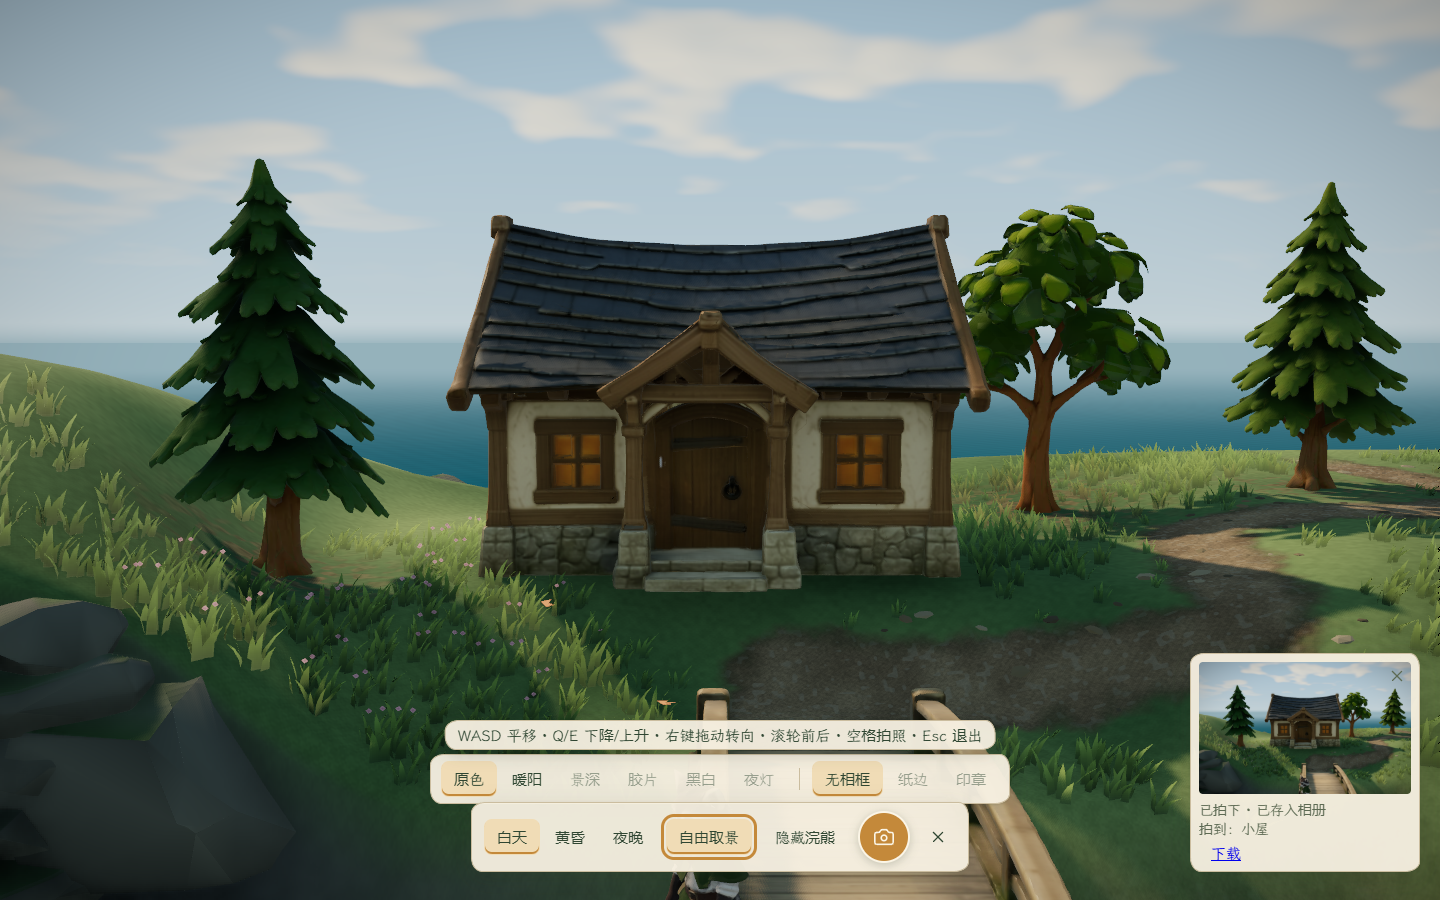
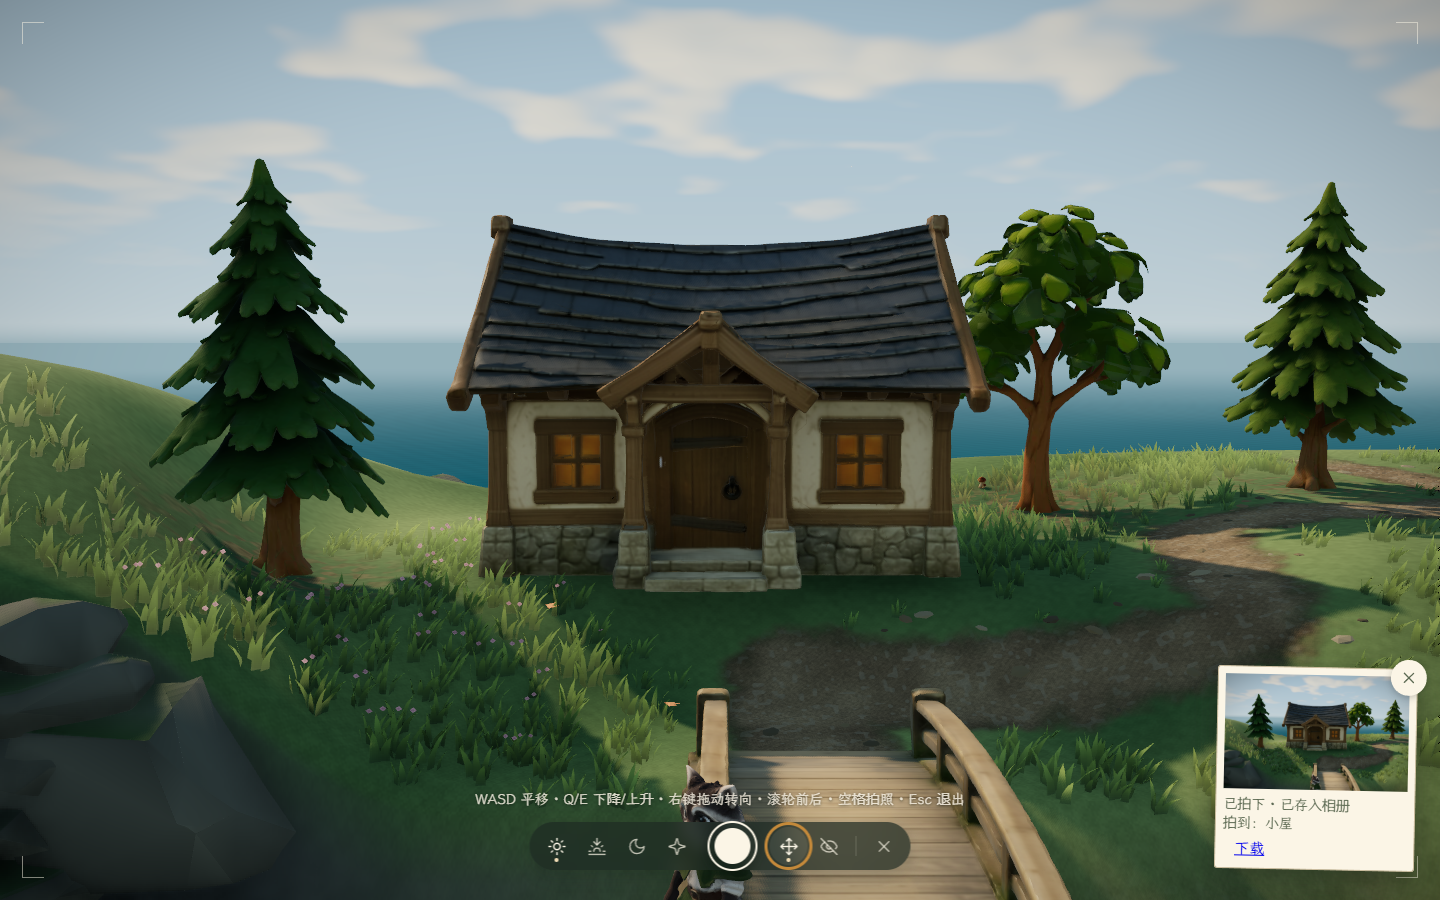
feat(photo): 拍照界面改为取景器风格，低画质下景深置灰并说明原因
底部墨绿半透明图标胶囊、环形快门、按需展开的滤镜条、淡出提示与四角取景框，
刚拍照片改为拍立得小卡；按钮保留隐藏文字与悬停说明。

Changed region(s): [[0.2812, 0.7778, 0.7188, 1.0], [0.8125, 0.7156, 1.0, 0.9956]]

diff --git a/src/App.css b/src/App.css
@@ -192,28 +192,14 @@ html[lang=en] .paper-panel h2{letter-spacing:.01em}
 .stamp-row small{font-size:14px}
 
 /* Photo mode */
-.photo-bar{position:absolute;left:50%;bottom:28px;transform:translateX(-50%);display:flex;align-items:center;gap:10px;padding:8px 12px;pointer-events:auto}
-.photo-lights{display:flex;gap:2px}
-.hud .photo-bar .tool-button[aria-pressed=true]{background:var(--amber-soft);box-shadow:inset 0 -2px 0 var(--amber)}
-.hud .shutter{width:52px;height:52px;border-radius:50%;padding:0;justify-content:center;background:var(--amber);border:2px solid var(--cream);color:var(--cream);box-shadow:0 2px 10px #2c3a2640}
-.hud .shutter:hover{background:var(--amber-ink)}
-.photo-hint{color:var(--ink);text-shadow:none;background:var(--paper);border:1px solid var(--line);border-radius:var(--paper-radius);padding:4px 12px;position:absolute;left:50%;bottom:150px;transform:translateX(-50%);width:max-content;max-width:calc(100% - 40px);margin:0}
 .photo-flash{position:absolute;inset:0;background:#fffbe8;opacity:.85;pointer-events:none;animation:photo-flash .18s ease-out forwards}
 @keyframes photo-flash{to{opacity:0}}
-.photo-last{position:absolute;right:20px;bottom:28px;margin:0;width:230px;padding:8px;display:grid;gap:6px;pointer-events:auto}
-.photo-last img{width:100%;border-radius:4px;display:block}
-.photo-last figcaption{font-size:14px;color:var(--ink-soft)}
-.photo-last .close-button{position:absolute;top:4px;right:4px}
 .hud .tool-button[aria-disabled=true]{opacity:.5}
 .album-grid{list-style:none;margin:8px 0 0;padding:0;display:grid;grid-template-columns:repeat(2,1fr);gap:10px}
 .album-grid img{width:100%;border-radius:4px;display:block;aspect-ratio:16/10;object-fit:cover}
 .album-grid span{font-size:14px;color:var(--ink-soft)}
 .album-grid div{display:flex;gap:6px;margin-top:2px}
 
-.photo-styles{position:absolute;left:50%;bottom:96px;transform:translateX(-50%);display:flex;align-items:center;gap:8px;padding:6px 10px;pointer-events:auto;width:max-content;max-width:calc(100% - 40px)}
-.photo-styles>div{display:flex;gap:2px}
-.hud .photo-styles .tool-button[aria-pressed=true]{background:var(--amber-soft);box-shadow:inset 0 -2px 0 var(--amber)}
-.hud .photo-styles .tool-button[aria-disabled=true]{opacity:.45}
 
 /* Field guide */
 .catalog-tabs{display:flex;gap:4px;margin-bottom:10px;border-bottom:1px solid var(--line-soft)}
@@ -245,3 +231,39 @@ html[lang=en] .paper-panel h2{letter-spacing:.01em}
 .recipe-list small{grid-column:1;color:var(--ink-soft);font-size:14px}
 .recipe-list button,.recipe-made{grid-column:2;grid-row:1/span 2}
 .recipe-made{color:var(--moss);font-size:14px}
+
+/* Photo mode: a viewfinder. One slim ink strip of icons, a ring shutter, faint corner marks; the picture stays clear. */
+.sr-only{position:absolute;width:1px;height:1px;overflow:hidden;clip-path:inset(50%);white-space:nowrap}
+.viewfinder{position:absolute;inset:22px;pointer-events:none}
+.viewfinder i{position:absolute;width:22px;height:22px;border-color:#fbf5e680;border-style:solid;border-width:0}
+.viewfinder i:nth-child(1){left:0;top:0;border-left-width:1.5px;border-top-width:1.5px}
+.viewfinder i:nth-child(2){right:0;top:0;border-right-width:1.5px;border-top-width:1.5px}
+.viewfinder i:nth-child(3){left:0;bottom:0;border-left-width:1.5px;border-bottom-width:1.5px}
+.viewfinder i:nth-child(4){right:0;bottom:0;border-right-width:1.5px;border-bottom-width:1.5px}
+.photo-strip,.photo-looks{position:absolute;left:50%;transform:translateX(-50%);display:flex;align-items:center;gap:2px;padding:5px 8px;border-radius:999px;background:#1d2a22b3;backdrop-filter:blur(8px);-webkit-backdrop-filter:blur(8px);box-shadow:0 6px 20px #10181240;pointer-events:auto}
+.photo-strip{bottom:30px}
+.photo-looks{bottom:96px;padding:4px 10px;gap:0}
+.photo-strip .group{display:flex;gap:2px}
+.photo-strip .rule{width:1px;height:20px;background:#fbf5e62e;margin:0 6px}
+.hud .photo-strip .icon-button{position:relative;width:38px;min-height:38px;padding:0;justify-content:center;border:0;border-radius:50%;background:transparent;color:#fbf5e6b8}
+.hud .photo-strip .icon-button:hover{background:#fbf5e614;color:var(--cream)}
+.hud .photo-strip .icon-button[aria-pressed=true]{color:var(--cream)}
+.hud .photo-strip .icon-button[aria-pressed=true]::after{content:'';position:absolute;bottom:3px;left:50%;width:4px;height:4px;margin-left:-2px;border-radius:50%;background:var(--amber-soft)}
+.hud .photo-strip .shutter{width:50px;height:50px;margin:-10px 10px;padding:0;border-radius:50%;border:2px solid var(--cream);background:transparent;display:grid;place-items:center;box-shadow:0 2px 12px #10181259}
+.hud .photo-strip .shutter span{width:36px;height:36px;border-radius:50%;background:var(--cream);transition:transform .12s ease}
+.hud .photo-strip .shutter:hover span{transform:scale(.92)}
+.hud .photo-strip .shutter:active span{transform:scale(.82)}
+.hud .photo-looks .chip{min-height:36px;padding:0 10px;border:0;border-radius:999px;background:transparent;color:#fbf5e6b8;font-size:14px}
+.hud .photo-looks .chip:hover{color:var(--cream);background:#fbf5e614}
+.hud .photo-looks .chip[aria-pressed=true]{color:var(--cream);box-shadow:inset 0 -2px 0 var(--amber-soft);border-radius:4px}
+.hud .photo-looks .chip[aria-disabled=true]{opacity:.38}
+.photo-looks .rule{width:1px;height:18px;background:#fbf5e62e;margin:0 8px}
+.photo-hint{position:absolute;left:50%;bottom:92px;transform:translateX(-50%);margin:0;width:max-content;max-width:calc(100% - 40px);color:#fbf5e6d9;font-size:14px;text-shadow:0 1px 3px #0e1610cc;pointer-events:none;animation:photo-hint 6s ease forwards}
+.photo-looks~.photo-hint{display:none}
+@keyframes photo-hint{0%,70%{opacity:1}100%{opacity:0}}
+@media (prefers-reduced-motion:reduce){.photo-hint{animation:none}}
+.photo-last{position:absolute;right:24px;bottom:30px;margin:0;width:200px;padding:7px 7px 10px;display:grid;gap:6px;background:var(--cream);border-radius:3px;box-shadow:0 8px 24px #10181259;transform:rotate(1.2deg);pointer-events:auto}
+.photo-last img{width:100%;display:block}
+.photo-last figcaption{font-size:14px;color:var(--ink-soft);line-height:1.35}
+.photo-last .close-button{position:absolute;top:-10px;right:-10px;background:var(--cream);border-radius:50%;box-shadow:0 2px 8px #10181240}
+.photo-last a{justify-self:start}

diff --git a/src/PhotoHud.tsx b/src/PhotoHud.tsx
@@ -1,11 +1,11 @@
 import {useEffect,useState} from 'react'
 import {useLang,useT} from './i18n'
-import {Icon} from './Icon'
+import {Icon,type IconName} from './Icon'
 import {useForestStore} from './game/store'
 import {usePhotoStore} from './game/photoStore'
 import {wallSlots} from './game/photoWall'
 import {subjectIds,type SubjectId} from './game/photoSubjects'
-import {photoBlock,albumLimit,filterIds,frameIds,filterUnlock,frameUnlock,looksUnlocked} from './game/photo'
+import {filterAllowed,photoBlock,albumLimit,filterIds,frameIds,filterUnlock,frameUnlock,looksUnlocked} from './game/photo'
 import {useJournalStore} from './game/journalStore'
 import {deletePhoto,listPhotos,type PhotoRecord} from './game/photoAlbum'
 
@@ -26,28 +26,32 @@ export function PhotoButton(){
 export function PhotoHud(){
  const t=useT()
  const s=usePhotoStore(),light=useForestStore(f=>f.timeOfDay),pages=useJournalStore(j=>j.book.stamps.length)
+ const [looksOpen,setLooksOpen]=useState(false)
  if(!s.active)return null
+ const lightIcon={day:'sun',dusk:'sunset',night:'moon'} as const
+ // Icon buttons keep their words for screen readers (and scripts) in a hidden span; the title shows them on hover.
+ const icon=(label:string,name:IconName,pressed:boolean|undefined,onClick:()=>void,extra?:string)=>
+  <button type="button" className="icon-button" aria-pressed={pressed} title={extra?`${label} · ${extra}`:label} onClick={onClick}><Icon name={name} size={19}/><span className="sr-only">{label}</span></button>
  return <>
   {s.flash>0&&!reducedMotion()&&<div key={s.flash} className="photo-flash" aria-hidden="true"/>}
-  <div className="photo-styles paper-note">
-   <div role="group" aria-label={t('photo.filters')}>
-    {filterIds.map(id=>{const open=looksUnlocked(pages,filterUnlock[id]);return <button key={id} type="button" className="tool-button" aria-pressed={s.filter===id} aria-disabled={open?undefined:true} title={open?undefined:t('photo.locked',{n:filterUnlock[id]})} onClick={()=>s.setFilter(id)}>{t(`photo.filter.${id}` as const)}</button>})}
+  <div className="viewfinder" aria-hidden="true"><i/><i/><i/><i/></div>
+  {looksOpen&&<div className="photo-looks photo-styles" role="group" aria-label={t('photo.filters')}>
+   {filterIds.map(id=>{const open=looksUnlocked(pages,filterUnlock[id]),usable=filterAllowed(id,s.lowQuality);return <button key={id} type="button" className="chip" aria-pressed={s.filter===id&&usable} aria-disabled={open&&usable?undefined:true} title={!open?t('photo.locked',{n:filterUnlock[id]}):usable?undefined:t('photo.lowQuality')} onClick={()=>{if(usable)s.setFilter(id)}}>{t(`photo.filter.${id}` as const)}</button>})}
+   <span className="rule" aria-hidden="true"/>
+   {frameIds.map(id=>{const open=looksUnlocked(pages,frameUnlock[id]);return <button key={id} type="button" className="chip" aria-pressed={s.frame===id} aria-disabled={open?undefined:true} title={open?undefined:t('photo.locked',{n:frameUnlock[id]})} onClick={()=>s.setFrame(id)}>{t(`photo.frame.${id}` as const)}</button>})}
+  </div>}
+  <p key={s.free?'free':'orbit'} className="photo-hint">{t(s.free?'photo.hintFree':'photo.hint')}</p>
+  <div className="photo-strip photo-bar" role="toolbar" aria-label={t('photo.label')}>
+   <div className="group" role="group" aria-label={t('photo.light')}>
+    {lights.map(l=><span key={l}>{icon(t(`photo.light.${l}` as const),lightIcon[l],light===l,()=>s.setLight(l))}</span>)}
    </div>
-   <span className="tool-divider" aria-hidden="true"/>
-   <div role="group" aria-label={t('photo.frames')}>
-    {frameIds.map(id=>{const open=looksUnlocked(pages,frameUnlock[id]);return <button key={id} type="button" className="tool-button" aria-pressed={s.frame===id} aria-disabled={open?undefined:true} title={open?undefined:t('photo.locked',{n:frameUnlock[id]})} onClick={()=>s.setFrame(id)}>{t(`photo.frame.${id}` as const)}</button>})}
-   </div>
+   {icon(t('photo.looks'),'sparkles',looksOpen,()=>setLooksOpen(v=>!v))}
+   <button type="button" className="shutter" aria-label={t('photo.shutter')} title={`${t('photo.shutter')} (Space)`} aria-busy={s.pending} onClick={s.shutter}><span/></button>
+   {icon(t('photo.free'),'move',s.free,s.toggleFree,t('photo.freeHint'))}
+   {icon(t('photo.hideRaccoon'),'hide',s.hideRaccoon,s.toggleHideRaccoon)}
+   <span className="rule" aria-hidden="true"/>
+   {icon(`${t('photo.close')} (Esc)`,'close',undefined,s.exit)}
   </div>
-  <div className="photo-bar paper-note" role="toolbar" aria-label={t('photo.label')}>
-   <div className="photo-lights" role="group" aria-label={t('photo.light')}>
-    {lights.map(l=><button key={l} type="button" className="tool-button" aria-pressed={light===l} onClick={()=>s.setLight(l)}>{t(`photo.light.${l}` as const)}</button>)}
-   </div>
-   <button type="button" className="tool-button" aria-pressed={s.free} title={t('photo.freeHint')} onClick={s.toggleFree}>{t('photo.free')}</button>
-   <button type="button" className="tool-button" aria-pressed={s.hideRaccoon} onClick={s.toggleHideRaccoon}>{t('photo.hideRaccoon')}</button>
-   <button type="button" className="shutter" aria-label={t('photo.shutter')} title={`${t('photo.shutter')} (Space)`} aria-busy={s.pending} onClick={s.shutter}><Icon name="camera" size={22}/></button>
-   <button type="button" className="tool-button icon-only" aria-label={t('photo.close')} title={`${t('photo.close')} (Esc)`} onClick={s.exit}><Icon name="close"/></button>
-  </div>
-  <p className="ink-note photo-hint">{t(s.free?'photo.hintFree':'photo.hint')}</p>
   {s.last&&<figure className="paper-note photo-last">
    <img src={s.last.url} alt={t('photo.taken')}/>
    <figcaption>{t('photo.taken')}{s.last.saved?` · ${t('photo.savedAlbum')}`:''}{s.last.subjects.length>0&&<><br/>{t('photo.subjects',{list:s.last.subjects.map(id=>t(`subject.${id}` as const)).join(t('list.separator'))})}</>}</figcaption>

diff --git a/src/Icon.tsx b/src/Icon.tsx
@@ -16,6 +16,10 @@ const paths={
  show:<><path d="M2.062 12.348a1 1 0 0 1 0-.696 10.75 10.75 0 0 1 19.876 0 1 1 0 0 1 0 .696 10.75 10.75 0 0 1-19.876 0"/><circle cx="12" cy="12" r="3"/></>,
  camera:<><path d="M13.997 4a2 2 0 0 1 1.76 1.05l.486.9A2 2 0 0 0 18.003 7H20a2 2 0 0 1 2 2v9a2 2 0 0 1-2 2H4a2 2 0 0 1-2-2V9a2 2 0 0 1 2-2h1.997a2 2 0 0 0 1.759-1.048l.489-.904A2 2 0 0 1 10.004 4z"/><circle cx="12" cy="13" r="3"/></>,
  album:<><rect width="18" height="18" x="3" y="3" rx="2"/><circle cx="9" cy="9" r="2"/><path d="m21 15-3.086-3.086a2 2 0 0 0-2.828 0L6 21"/></>,
+ sun:<><circle cx="12" cy="12" r="4"/><path d="M12 2v2"/><path d="M12 20v2"/><path d="m4.93 4.93 1.41 1.41"/><path d="m17.66 17.66 1.41 1.41"/><path d="M2 12h2"/><path d="M20 12h2"/><path d="m6.34 17.66-1.41 1.41"/><path d="m19.07 4.93-1.41 1.41"/></>,
+ sunset:<><path d="M12 10V2"/><path d="m4.93 10.93 1.41 1.41"/><path d="M2 18h2"/><path d="M20 18h2"/><path d="m19.07 10.93-1.41 1.41"/><path d="M22 22H2"/><path d="m16 6-4 4-4-4"/><path d="M16 18a4 4 0 0 0-8 0"/></>,
+ move:<><path d="M12 2v20"/><path d="m15 19-3 3-3-3"/><path d="m19 9 3 3-3 3"/><path d="M2 12h20"/><path d="m5 9-3 3 3 3"/><path d="m9 5 3-3 3 3"/></>,
+ sparkles:<path d="M9.937 15.5A2 2 0 0 0 8.5 14.063l-6.135-1.582a.5.5 0 0 1 0-.962L8.5 9.936A2 2 0 0 0 9.937 8.5l1.582-6.135a.5.5 0 0 1 .963 0L14.063 8.5A2 2 0 0 0 15.5 9.937l6.135 1.581a.5.5 0 0 1 0 .964L15.5 14.063a2 2 0 0 0-1.437 1.437l-1.582 6.135a.5.5 0 0 1-.963 0z"/>,
  close:<><path d="M18 6 6 18"/><path d="m6 6 12 12"/></>,
  left:<path d="m15 18-6-6 6-6"/>,
  right:<path d="m9 18 6-6-6-6"/>,

diff --git a/src/game/photoStore.ts b/src/game/photoStore.ts
@@ -18,6 +18,8 @@ type PhotoState={
  hideRaccoon:boolean
  /** Free framing: the camera is flown by hand near the raccoon instead of orbiting it. */
  free:boolean
+ /** The renderer has dropped to its low tier (forced or after slow frames): depth of field is off. */
+ lowQuality:boolean
  filter:FilterId
  frame:FrameId
  /** The light the player was in before previewing another one; restored on leaving. */
@@ -55,7 +57,7 @@ const forget=(shot:LastShot|null)=>{if(shot)URL.revokeObjectURL(shot.url)}
 function saveWall(wall:readonly string[]){try{window.localStorage.setItem(photoWallKey,JSON.stringify(wall))}catch{say(t('wall.unsaved'),'error')}}
 
 export const usePhotoStore=create<PhotoState>((set,get)=>({
- active:false,hideRaccoon:false,free:false,filter:'plain',frame:'none',restoreLight:null,pending:false,flash:0,albumVersion:0,last:null,
+ active:false,hideRaccoon:false,free:false,lowQuality:false,filter:'plain',frame:'none',restoreLight:null,pending:false,flash:0,albumVersion:0,last:null,
  enter:()=>{
   const forest=useForestStore.getState()
   if(get().active)return

diff --git a/src/i18n.ts b/src/i18n.ts
@@ -99,6 +99,8 @@ const zh={
  'album.unavailable':'浏览器不允许读取相册。',
  'album.photoLabel':'照片，{date}',
  'photo.filters':'滤镜',
+ 'photo.looks':'滤镜与相框',
+ 'photo.lowQuality':'画面已降为低画质档，景深暂不可用',
  'photo.frames':'相框',
  'photo.locked':'手账写满 {n} 页解锁',
  'photo.frameFailed':'相框没能画上，已保存原图。',
@@ -525,6 +527,8 @@ const en:Record<Key,string>={
  'album.unavailable':'The browser will not let the album be read.',
  'album.photoLabel':'Photo, {date}',
  'photo.filters':'Filters',
+ 'photo.looks':'Filters and frames',
+ 'photo.lowQuality':'Running at low quality; depth of field is off',
  'photo.frames':'Frames',
  'photo.locked':'Unlocks after {n} journal pages',
  'photo.frameFailed':'The frame could not be drawn; the plain photo was kept.',

diff --git a/src/world/PostEffects.tsx b/src/world/PostEffects.tsx
@@ -1,4 +1,4 @@
-import {useRef,useState} from 'react'
+import {useEffect,useRef,useState} from 'react'
 import {useFrame} from '@react-three/fiber'
 import * as THREE from 'three'
 import {PerformanceMonitor} from '@react-three/drei'
@@ -39,6 +39,8 @@ function FocusPull({effect}:{effect:React.RefObject<{target:THREE.Vector3}|null>
  */
 export function PostEffects(){
   const [low,setLow]=useState(forcedLow)
+  // Photo mode greys out what the low tier cannot draw.
+  useEffect(()=>{usePhotoStore.setState({lowQuality:low})},[low])
   const look=useLook(low),focus=useRef<{target:THREE.Vector3}|null>(null)
   const lamp=look==='lamp'
   return <>

diff --git a/PROGRESS.md b/PROGRESS.md
@@ -7,7 +7,19 @@
 - 验证：lint、166/166 单测（38 文件）、build 通过；既有 >500 kB 构建提示仍在。本轮未改运行时代码，未执行浏览器脚本；无新 Lux3D/Blender 模型、模型积分消耗或实机画面证据。
 - 下一步：用户查看参考图，再按原方案确认 Lux3D 调用；透明玻璃、水母发光、细草条与背面结构仍需后续建模验证。未提交、推送或部署。报告同步至 v0.72 / 5.67。
 
-## 玩法扩展 X1/X2/X3 逻辑（2026-10-27，进行中，未提交）
+## 拍照界面改为取景器风格（2026-10-27，本机限定验证，待用户查看）
+
+- 用户反馈拍照 HUD“不好看、和森林不搭、不够简约”（三层奶油纸条、全文字按钮、琥珀色块）。改为取景器：底部一条墨绿半透明细胶囊（背景模糊）只放图标（白天/黄昏/夜晚、滤镜、环形快门、自由取景、隐藏浣熊、关闭），选中只加小亮点；滤镜与相框收进“滤镜”按钮按需展开；操作提示无底框、数秒后淡出；画面四角淡色取景框；刚拍照片改为拍立得小卡。按钮保留隐藏文字与悬停说明，读屏可用。
+- 同时补上已知缺口：渲染降为低画质档时，“景深”置灰并说明原因（此前看似可选但不生效）。
+- `check_photo_looks`（6 组）、`check_photo`（11）、`check_photo_free`（6）、`check_photo_tasks`（7）全部通过；本轮未降档，景深虚化实测有效。lint、tsc 通过。未提交。
+
+## 浏览器验证恢复与 X3 道具实机复核（2026-10-27，本机限定验证通过）
+
+- 按用户要求恢复浏览器验证，单浏览器串行运行。此前修复未复验的三项 `check_journal`（含 1024/1280 宽工具条不再与标题重叠）、`check_ui_upgrade`、`check_photo_looks` 全部通过。
+- 新增 `check_x3_props.mjs` 4 组通过：采集物与草窝为 Lux3D 模型、实际尺寸正确且贴地，真实 F 完成拾取、捡蛋、梳羊毛、取木料、做小木桌。实机发现并修正：蘑菇候选点落在沙滩（新增沙地判定）、草窝金属反光引发泛光亮点（全部道具金属度 0、粗糙度按材质设定，运行时 12 件 5.5 MB）。
+- lint、tsc、166/166 单测、build 通过。家具展示位、隐藏角落、码头海钓、X4 未做；以上 X1–X3 提交为 `f427d7f`、`965db24`、`44071e6`（未推送），本轮修正尚未提交。
+
+## 玩法扩展 X1/X2/X3 逻辑（2026-10-27，已提交 f427d7f/965db24/44071e6，未推送）
 
 - 方案：[玩法扩展方案](docs/GAMEPLAY_EXPANSION_PLAN.md)，用户选定 9 项并确认：小道具用 Lux3D（X3 前先列清单与调用次数、经用户确认再调用）、家具固定展示位、春夏秋三季按睡觉推进、顺序 X1→X2→X3→X4。
 - X1 底座（已实现，本机限定验证）：背包（`inventory.ts`，计数与已发现记录、坏档重置提示、存档失败提示）；菜单“鱼簿”改为“图鉴”，分“鱼 / 背包”两页。

diff --git a/docs/evidence/2026-10-27-photo/evidence.md b/docs/evidence/2026-10-27-photo/evidence.md
@@ -29,3 +29,7 @@
 - 新增文案（相册、拍照等）的部分汉字不在 `LXGW WenKai UI` 子集内，会回退到系统字体；没有原始字体文件，未能重生成子集。相框里的标题用同一字体，同样可能回退。
 - 快门声沿用剪刀素材，未人工试听；景深/胶片只看过无头截图，没有实机体验与帧时间测量。
 - 菜单相册不能在拍照模式内打开。
+
+## 追加（2026-10-27）：取景器式界面
+
+用户反馈原拍照工具条不简约、与森林不搭，改为底部一条墨绿半透明图标胶囊、环形快门、按需展开的滤镜条、淡出的操作提示与四角取景框；刚拍照片改为拍立得小卡。低画质档下“景深”置灰并说明原因（补上此前“只验证可选中”的缺口）。四个拍照脚本重跑全部通过，截图（`looks/`、`free/` 及扩展证据中的照片任务图）已是新界面。
